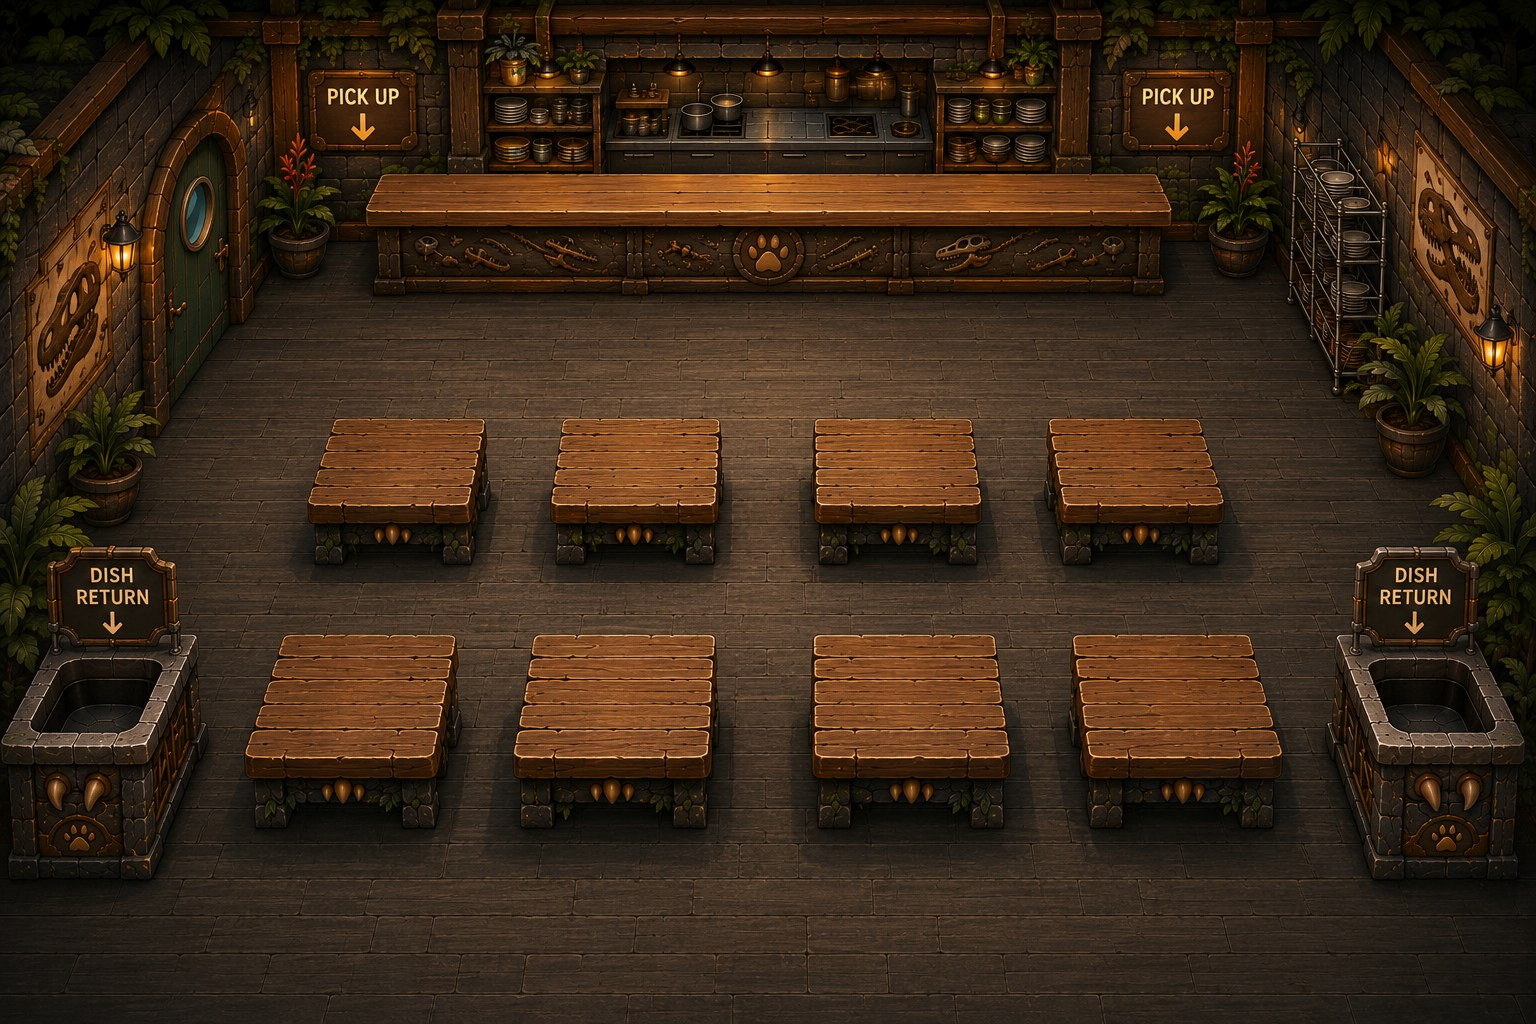
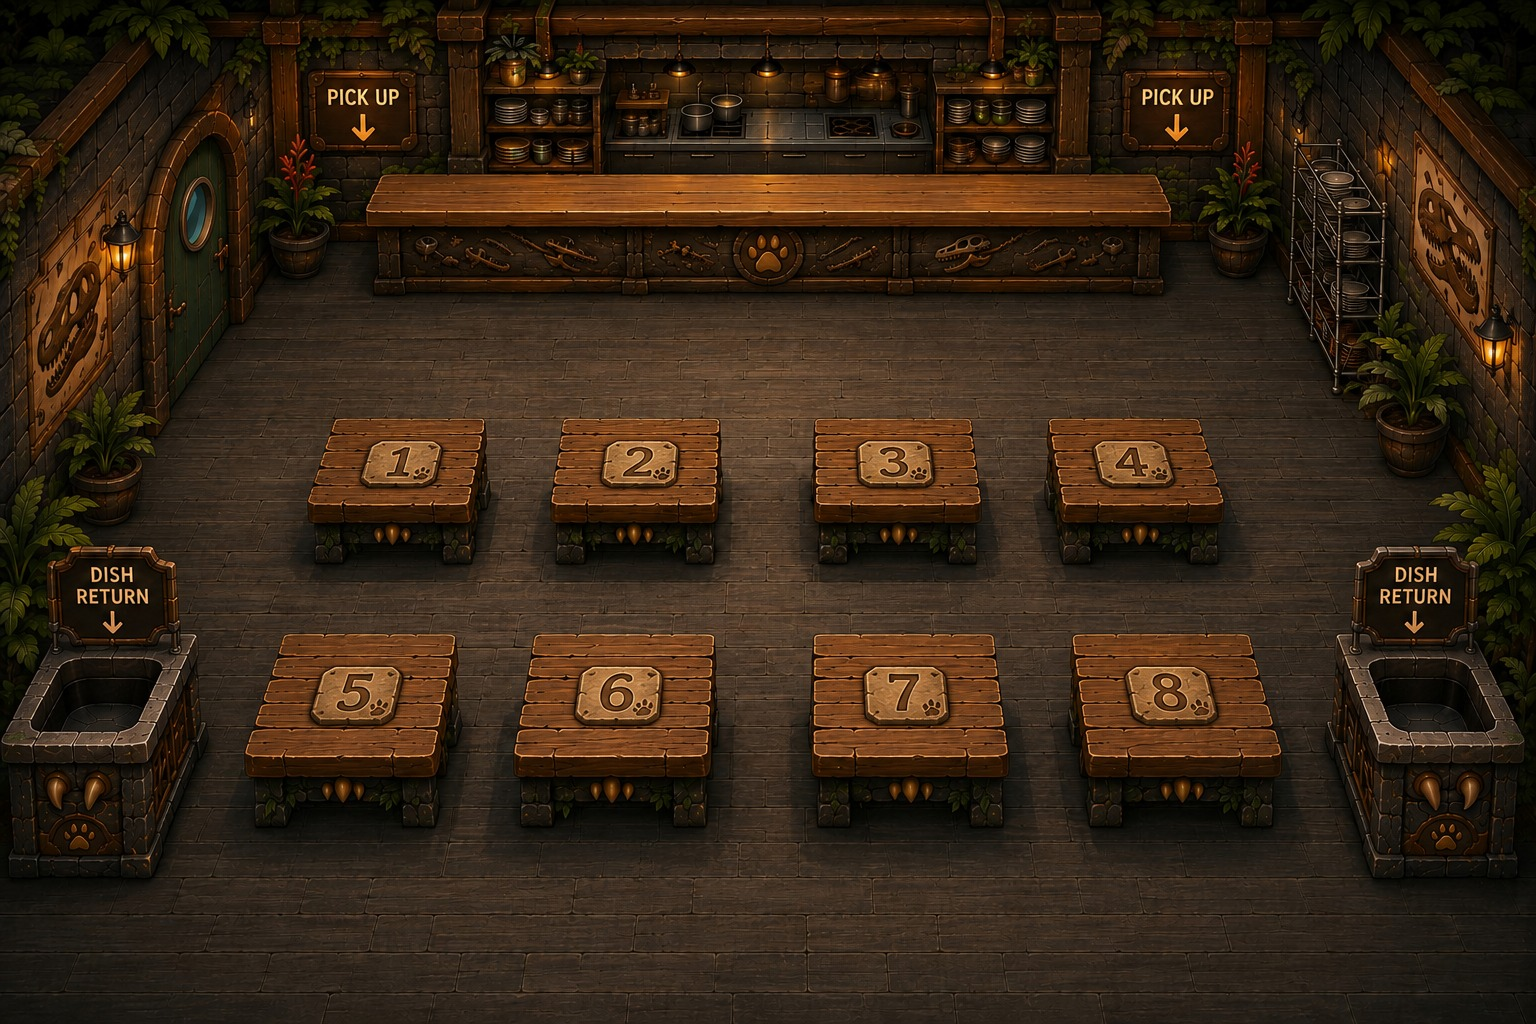
Bake the table numbers into the board, and stop drawing them
The eight tables are carved plaques now -- a slate number and a paw print
pressed into the tabletop -- rather than blank wood with a teal card drawn
over them in code. drawTableNumber is gone along with its call in drawTable;
drawTableTag stays, since that is a different function entirely (it numbers
the order ticket and the carried plate, which is where the fade rule lives).

This picks up work that was already in flight in another session when it hit
its usage limit mid-integration, so the reasoning it had already worked out
is worth keeping: a raw pixel diff against the previous board comes back at
25.5% of pixels changed, which is a full re-render rather than a patch, so
none of the old anchors could be trusted without checking.

Checked by overlaying the game's actual anchors -- all eight table centres,
both PICK UP pads, both dish-return stations -- on the new render and on the
old one side by side. They land in the same places on both. This was plaques
added to otherwise-unchanged furniture, not a relayout, so FLOOR_TOP, R1/R2,
tableDefs, PASSES and BUS_STATIONS all still apply as-is.

Verified mechanically (tools/hands.js, tools/dpad.js, tools/hud.js all pass
against the new board) and by eye -- screenshotted a live shift with tickets
out and a table mid-patience-drain: single legible number per table, SET DOWN
pads and patience meters landing where they always did, no collision with the
carried-plate tags or the tips sign.
[…]

diff --git a/index.html b/index.html
@@ -2609,33 +2609,6 @@
 
   // The table, its legs and its number are painted into the board. This draws
   // only what changes: the patience meter, the meal clock, and the dishes.
-  // The number plate. It used to be painted into the board art, which meant the
-  // art and the logical table ids could silently disagree — a board saying 3
-  // where the game means 4 would be a miserable bug in a game about remembering
-  // table numbers. Drawing it here makes them the same thing by construction,
-  // and lets the plate be restyled with the room instead of re-generated.
-  function drawTableNumber(t){
-    // On the tabletop, not floating above it. Above the table there is only a
-    // 70px gap to the row behind, which has to hold the patience meter too —
-    // the plate collided with the previous row's tables every time. A number
-    // card sitting on the table is also what a restaurant actually does.
-    const w = A(72), h = A(54);
-    ctx.save();
-    ctx.translate(t.x - A(50), t.y);
-    ctx.fillStyle = 'rgba(0,0,0,0.30)';
-    roundRect(ctx, -w/2 + 3, -h/2 + 4, w, h, 9); ctx.fill();
-    ctx.fillStyle = COLORS.counter || '#22403c';
-    roundRect(ctx, -w/2, -h/2, w, h, 9); ctx.fill();
-    ctx.strokeStyle = COLORS.mustard; ctx.lineWidth = 2.5;
-    roundRect(ctx, -w/2 + 3, -h/2 + 3, w - 6, h - 6, 7); ctx.stroke();
-    ctx.fillStyle = '#F4EEDB';
-    ctx.font = Math.round(A(40)) + 'px Galindo, sans-serif';
-    ctx.textAlign = 'center';
-    ctx.textBaseline = 'middle';
-    ctx.fillText(String(t.id), 0, 1);
-    ctx.textBaseline = 'alphabetic';
-    ctx.restore();
-  }
 
   function drawTable(t){
     ctx.save();
@@ -2704,9 +2677,6 @@
     }
 
     ctx.restore();
-    // Last, so nothing can cover it. The number is how the player identifies
-    // the table, and the whole game is remembering which one a plate is for.
-    drawTableNumber(t);
   }
 
   function drawPlayer(){
